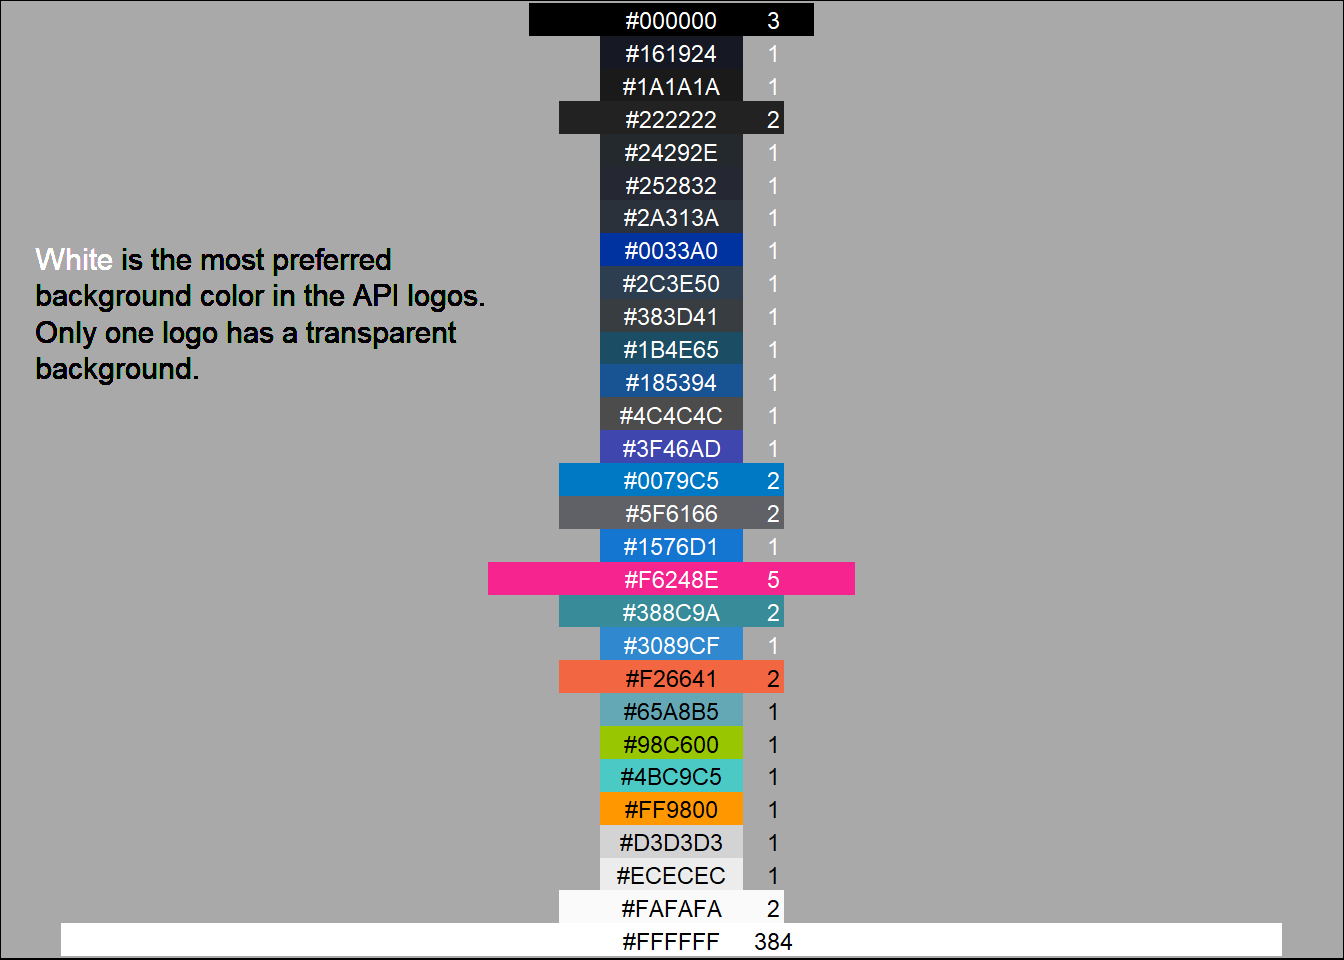
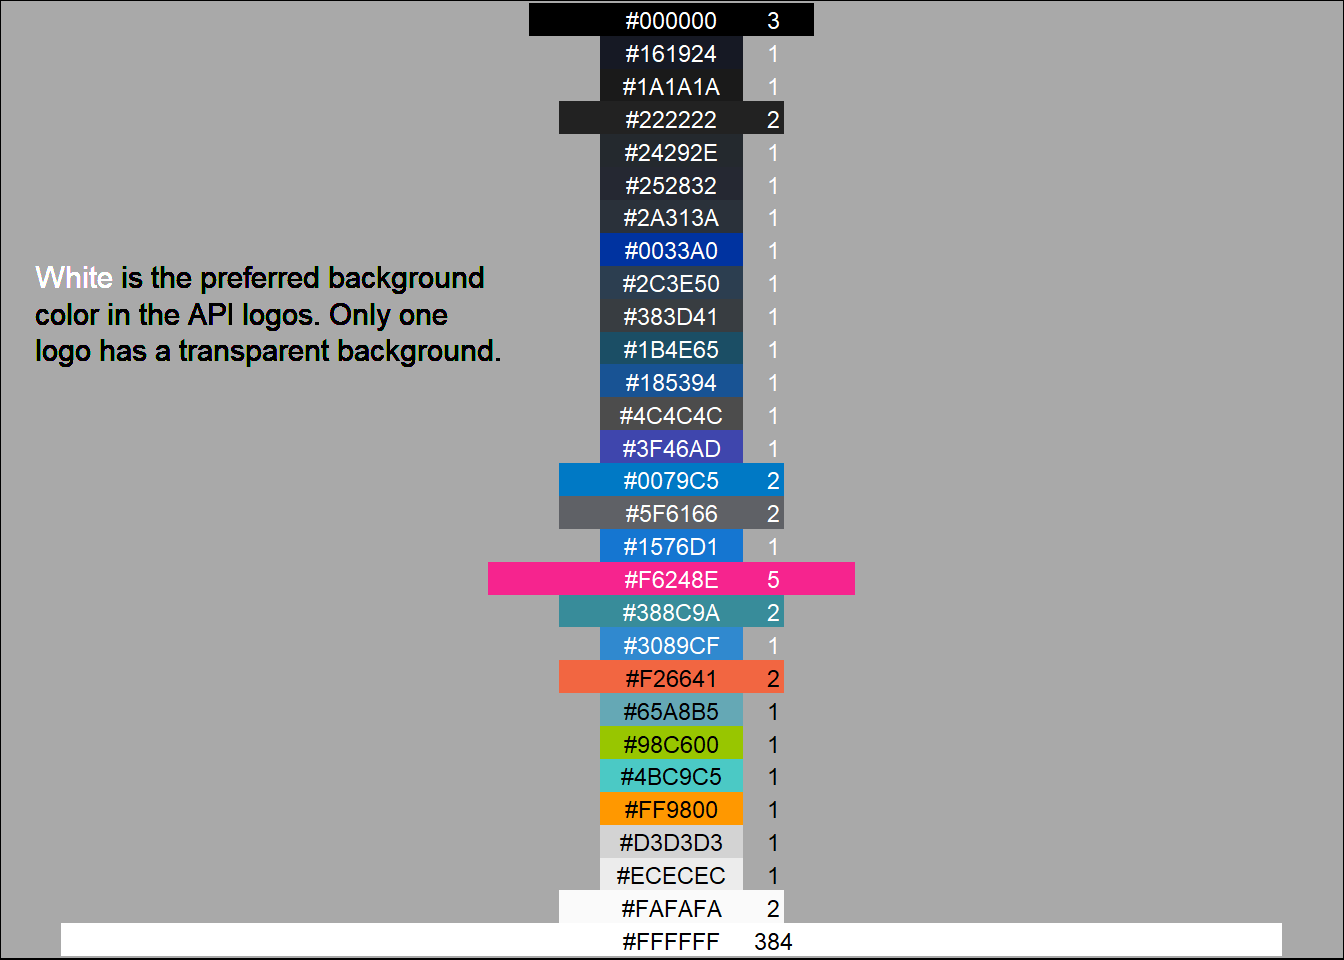
Updated site on Tue 06/17/2025

Changed region(s): [[0.0, 0.25, 0.375, 0.4062]]

diff --git a/docs/posts/API_gurus/API_gurus.html b/docs/posts/API_gurus/API_gurus.html
@@ -263,7 +263,7 @@ $ alt_text         &lt;chr&gt; NA, NA, NA, NA, NA, NA, NA, NA, NA, NA, NA, NA, N
 <section id="plotting" class="level2">
 <h2 class="anchored" data-anchor-id="plotting">Plotting</h2>
 <div class="cell">
-<div class="sourceCode cell-code" id="cb8"><pre class="sourceCode r code-with-copy"><code class="sourceCode r"><span id="cb8-1"><a href="#cb8-1" aria-hidden="true" tabindex="-1"></a>title <span class="ot">&lt;-</span> <span class="st">"&lt;span style='color:white;'&gt;White&lt;/span&gt; is the most preferred &lt;br&gt;background color in the API logos.&lt;br&gt; Only one logo has a transparent &lt;br&gt; background."</span></span>
+<div class="sourceCode cell-code" id="cb8"><pre class="sourceCode r code-with-copy"><code class="sourceCode r"><span id="cb8-1"><a href="#cb8-1" aria-hidden="true" tabindex="-1"></a>title <span class="ot">&lt;-</span> <span class="st">"&lt;span style='color:white;'&gt;White&lt;/span&gt; is the preferred background &lt;br&gt;color in the API logos. Only one &lt;br&gt;logo has a transparent background."</span></span>
 <span id="cb8-2"><a href="#cb8-2" aria-hidden="true" tabindex="-1"></a></span>
 <span id="cb8-3"><a href="#cb8-3" aria-hidden="true" tabindex="-1"></a>api_logos_mod <span class="sc">%&gt;%</span> </span>
 <span id="cb8-4"><a href="#cb8-4" aria-hidden="true" tabindex="-1"></a><span class="fu">ggplot</span>(<span class="fu">aes</span>(<span class="at">y =</span> <span class="fu">factor</span>(<span class="fu">seq_len</span>(<span class="fu">nrow</span>(api_logos_mod))),<span class="at">x=</span><span class="dv">1</span>, <span class="at">fill =</span> hex_color)) <span class="sc">+</span></span>

diff --git a/docs/index.html b/docs/index.html
@@ -197,7 +197,7 @@ window.Quarto = {
 
 <div class="quarto-listing quarto-listing-container-default" id="listing-listing">
 <div class="list quarto-listing-default">
-<div class="quarto-post image-right" data-index="0" data-categories="Z2dwbG90MiUyQ2NvbG9ycyUyQ1RpZHlUdWVzZGF5" data-listing-date-sort="1750098600000" data-listing-file-modified-sort="1750165604202" data-listing-date-modified-sort="NaN" data-listing-reading-time-sort="2" data-listing-word-count-sort="353">
+<div class="quarto-post image-right" data-index="0" data-categories="Z2dwbG90MiUyQ2NvbG9ycyUyQ1RpZHlUdWVzZGF5" data-listing-date-sort="1750098600000" data-listing-file-modified-sort="1750166469734" data-listing-date-modified-sort="NaN" data-listing-reading-time-sort="2" data-listing-word-count-sort="351">
 <div class="thumbnail"><a href="./posts/API_gurus/API_gurus.html" class="no-external">
 
 <img loading="lazy" src="./posts/API_gurus/API_logos.png" class="thumbnail-image">
